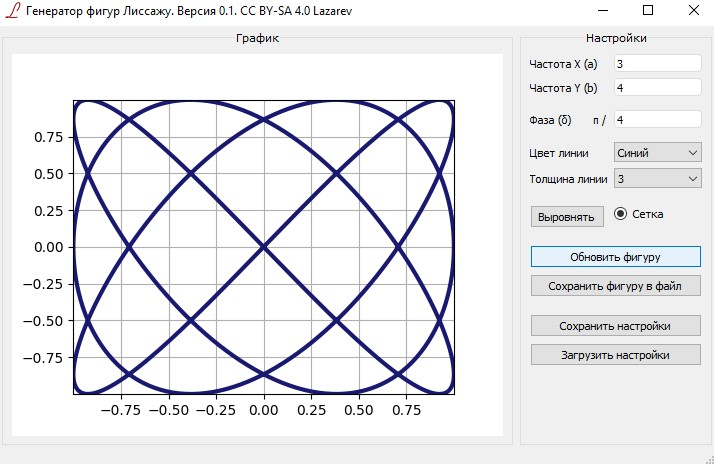
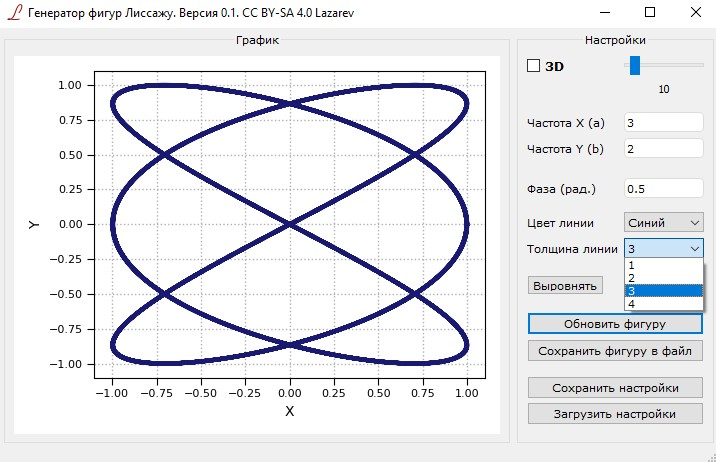
update func, upd readme

diff --git a/main_lissajous.py b/main_lissajous.py
@@ -27,9 +27,9 @@ def validation_form(form):
     """
 
     reg_ex_lineedit = QtCore.QRegExp("^([0-9]{1,2})[.]([0-9]{1,5})?$")
+
     reg_ex_phase = QtCore.QRegExp(r"^([0-9]{1,2})[.]([0-9]{1,5})\s?"
-                                  r"([0-9]{1,2})[.]([0-9]{1,5})\s?"
-                                  r"([0-9]{1,2})[.]([0-9]{1,5})?$")
+                                  r"([0-9]{1,2})[.]([0-9]{1,5})\s?")
 
     freq_x_validator = QtGui.QRegExpValidator(reg_ex_lineedit, form.freq_x_lineedit)
     freq_y_validator = QtGui.QRegExpValidator(reg_ex_lineedit, form.freq_y_lineedit)
@@ -121,6 +121,12 @@ class LissajousWindow(Qt.QMainWindow):
 
         self.setWindowIcon(QtGui.QIcon(self.settings["paths"]["icon"]["main"]))
 
+        Qt.QToolTip.setFont(QtGui.QFont('SansSerif', 10))
+        self.freq_x_lineedit.setToolTip('This is a <b>frequency X</b>')
+        self.freq_y_lineedit.setToolTip('This is a <b>frequency Y</b')
+        self.freq_z_lineedit.setToolTip('This is a <b>frequency Z</b>')
+        self.phase_lineedit.setToolTip('This is a <b>phase rel</b>. 0.5 = pi/2')
+
         self.plot_button.clicked.connect(self.plot_button_click_handler)
         self.save_button.clicked.connect(self.save_image_button_handler)
         self.proportion_button.clicked.connect(self.proportion_ratio_click_handler)
@@ -169,6 +175,17 @@ class LissajousWindow(Qt.QMainWindow):
 
         validation_form(self)
         settings = self.get_settings()
+
+        title_str = ''
+        values_ph = settings.get("phase").split()
+        for ph, axs in zip(values_ph, ['x', 'y', ]):
+            conv = float(ph).as_integer_ratio()
+
+            title_str = title_str + f'f_{axs}={round(conv[0], 3) if 1 < conv[0] < 9 else ""}' \
+                                    f'{["pi*", "pi/"][conv[0] < 9]}' \
+                                    f'{round(conv[1], 3) if 1 < conv[1] < 9 else ph}\n'
+        self.phase_lineedit.setToolTip(title_str.rstrip())
+
         self.plot_lissajous_figure(settings)
 
     def length_change_handler(self):
@@ -345,6 +362,27 @@ class LissajousWindow(Qt.QMainWindow):
             d.update({"3D": self.checkBox_3D.isChecked()})
             with open(path, 'w', encoding='utf-8') as write_file:
                 json.dump(d, write_file, indent=2, ensure_ascii=False)
+
+
+# class First(Qt.QMainWindow):
+#     def __init__(self, parent=None):
+#         super(First, self).__init__(parent)
+#         try:
+#             from settings import SETTINGS_MPL
+#         except:
+#             msg = Qt.QMessageBox()
+#             msg.setIcon(Qt.QMessageBox.Critical)
+#             msg.setText('Не найден файл настроек!')
+#             msg.exec_()
+#             sys.exit('File with settings was deleted!')
+#         uic.loadUi(SETTINGS_MPL["paths"]["start"], self)
+#
+#         self.pushButton.clicked.connect(self.on_pushButton_clicked)
+#         self.dialog = LissajousWindow(self)
+#
+#     def on_pushButton_clicked(self):
+#         self.hide()
+#         self.dialog.show()
 
 
 if __name__ == "__main__":

diff --git a/lissajousgen.py b/lissajousgen.py
@@ -45,7 +45,7 @@ class LissajousGenerator:
 
         self._resolution = resolution
 
-    def generate_figure(self, freq_x, freq_y, freq_z=1, phase='1.5708', a=1, b=1, c=1,
+    def generate_figure(self, freq_x, freq_y, freq_z=1, phase='0.5', a=1, b=1, c=1,
                         length=10, mode='2d'):
         """
         Функция генерирует фигуру (массивы x и y координат точек) с заданными частотами.
@@ -78,9 +78,13 @@ class LissajousGenerator:
         phi_x, phi_y, phi_z = phases
 
         t = dimension.get(mode, '2d')
-        x = a * np.sin(freq_x * t + phi_x)
-        y = b * np.sin(freq_y * t + phi_y)
-        z = c * np.sin(freq_z * t + phi_z)
-        # z = t
+        x = a * np.sin(freq_x * t + np.pi * phi_x)
+        y = b * np.sin(freq_y * t + np.pi * phi_y)
+        z = c * np.sin(freq_z * t)
+
+        # rose curve
+        # x = a * np.cos(freq_x * t + np.pi * phi_x) * np.cos(t)
+        # y = b * np.cos(freq_y * t + np.pi * phi_y) * np.sin(t)
+        # z = c * np.sin(freq_z * t + np.pi * phi_z)
 
         self.update_values(x, y, [None, z][mode == '3d'])

diff --git a/settings.py b/settings.py
@@ -24,7 +24,8 @@ SETTINGS_MPL = \
                 "main": f"{os.path.join(application_path, 'files', 'icon.ico')}",
             },
 
-            "ui": f"{os.path.join(application_path, 'main_window.ui')}"
+            "ui": f"{os.path.join(application_path, 'main_window.ui')}",
+            # 'start': f"{os.path.join(application_path, 'create.ui')}"
         },
 
         "dirs": {

diff --git a/README.md b/README.md
@@ -3,7 +3,7 @@
 Генератор фигур Лиссажу с графическим интерфейсом на PyQt5.
 
 Возможности:
-* Генерация фигур Лиссажу с заданными частотами по X и Y.
+* Генерация фигур Лиссажу с заданными частотами по X, Y, Z.
 * Есть возможность задавать сдвиг фаз
 * Установка цвета фигуры.
 * Установка толщины линии.
@@ -11,8 +11,8 @@
 * Загрузка/экспорт готовых пресетов настроек
 
 
->Замечание  
->Иногда частоты по X и Y обозначают буквами $a$ и $b$.
+>Замечание
+>Иногда частоты по X и Y обозначают буквами $a$, $b$, $c$.
 
 
 ## Работа с исходным кодом
